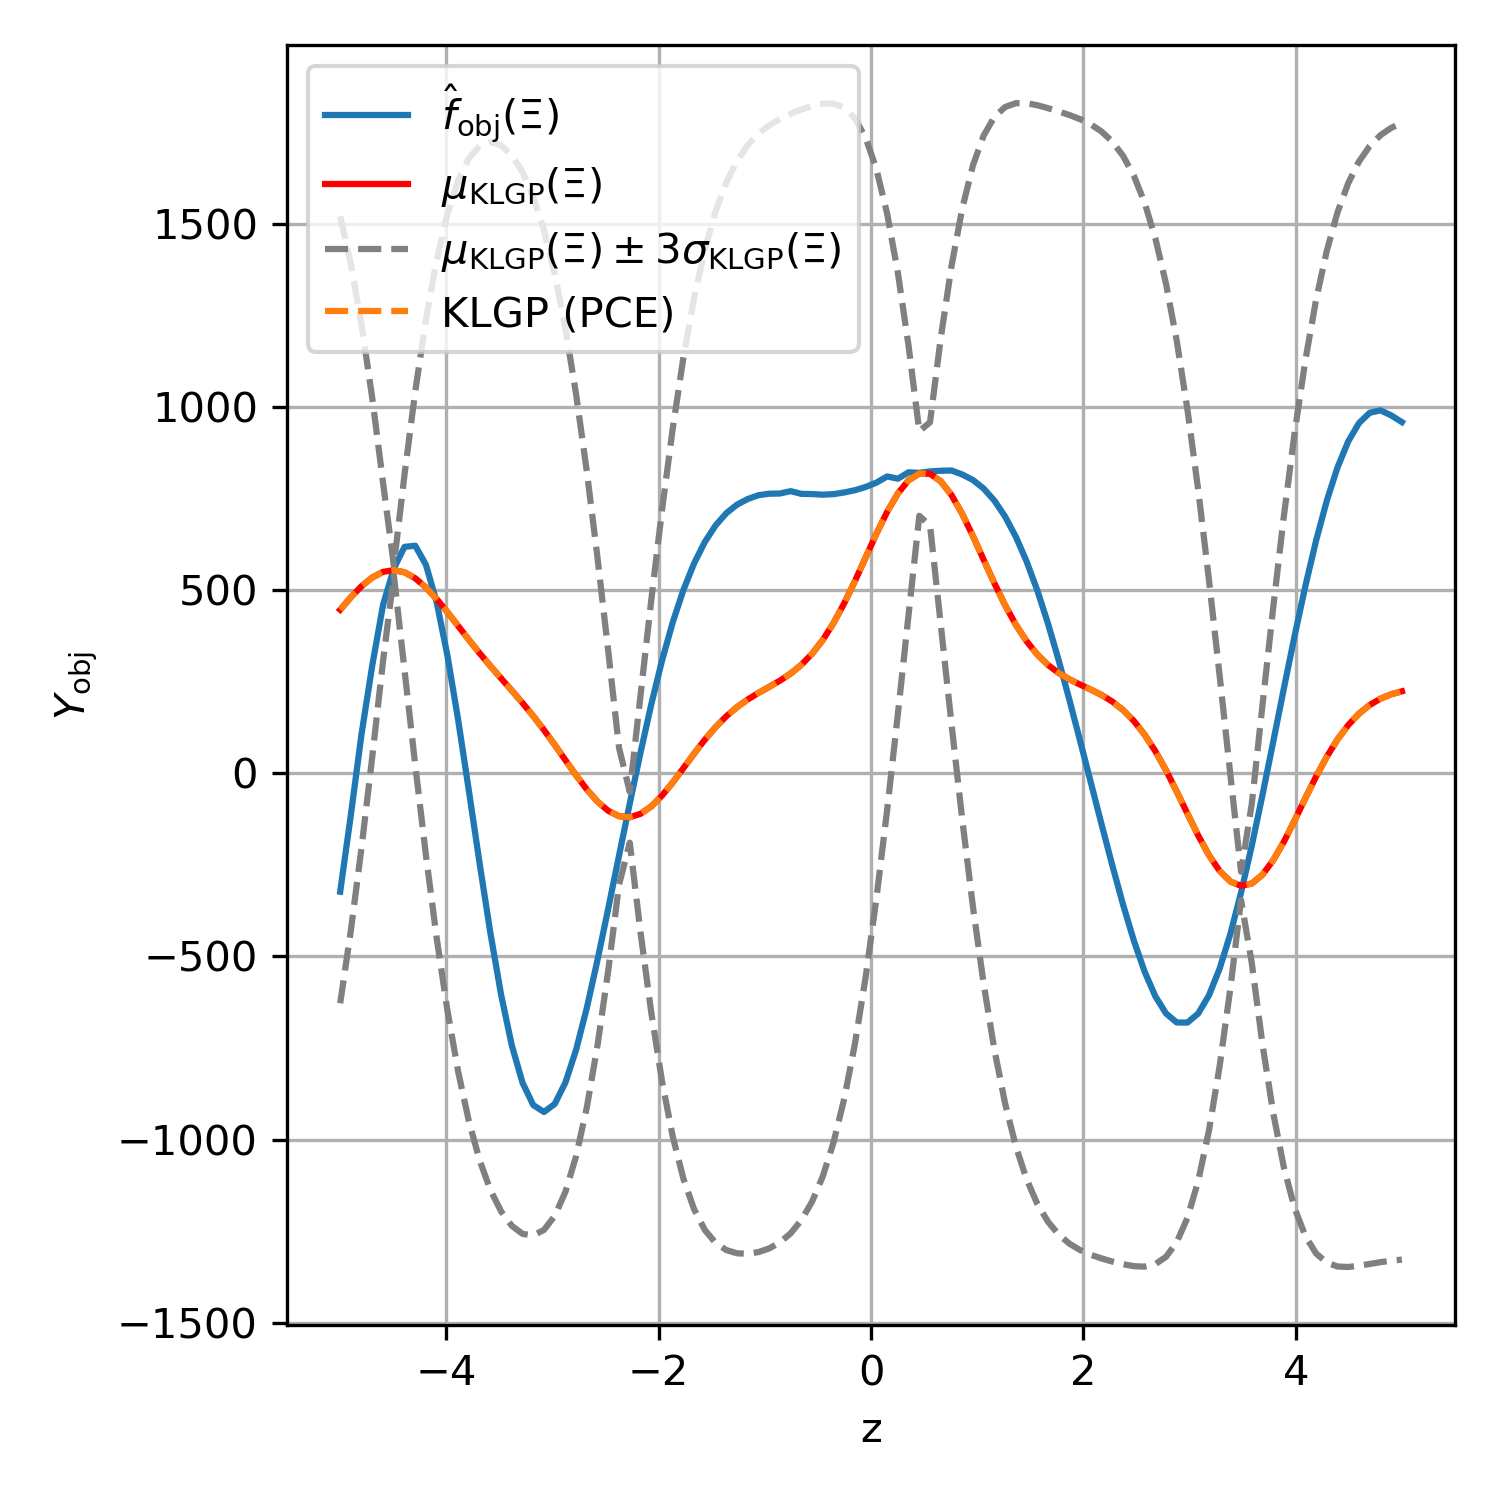
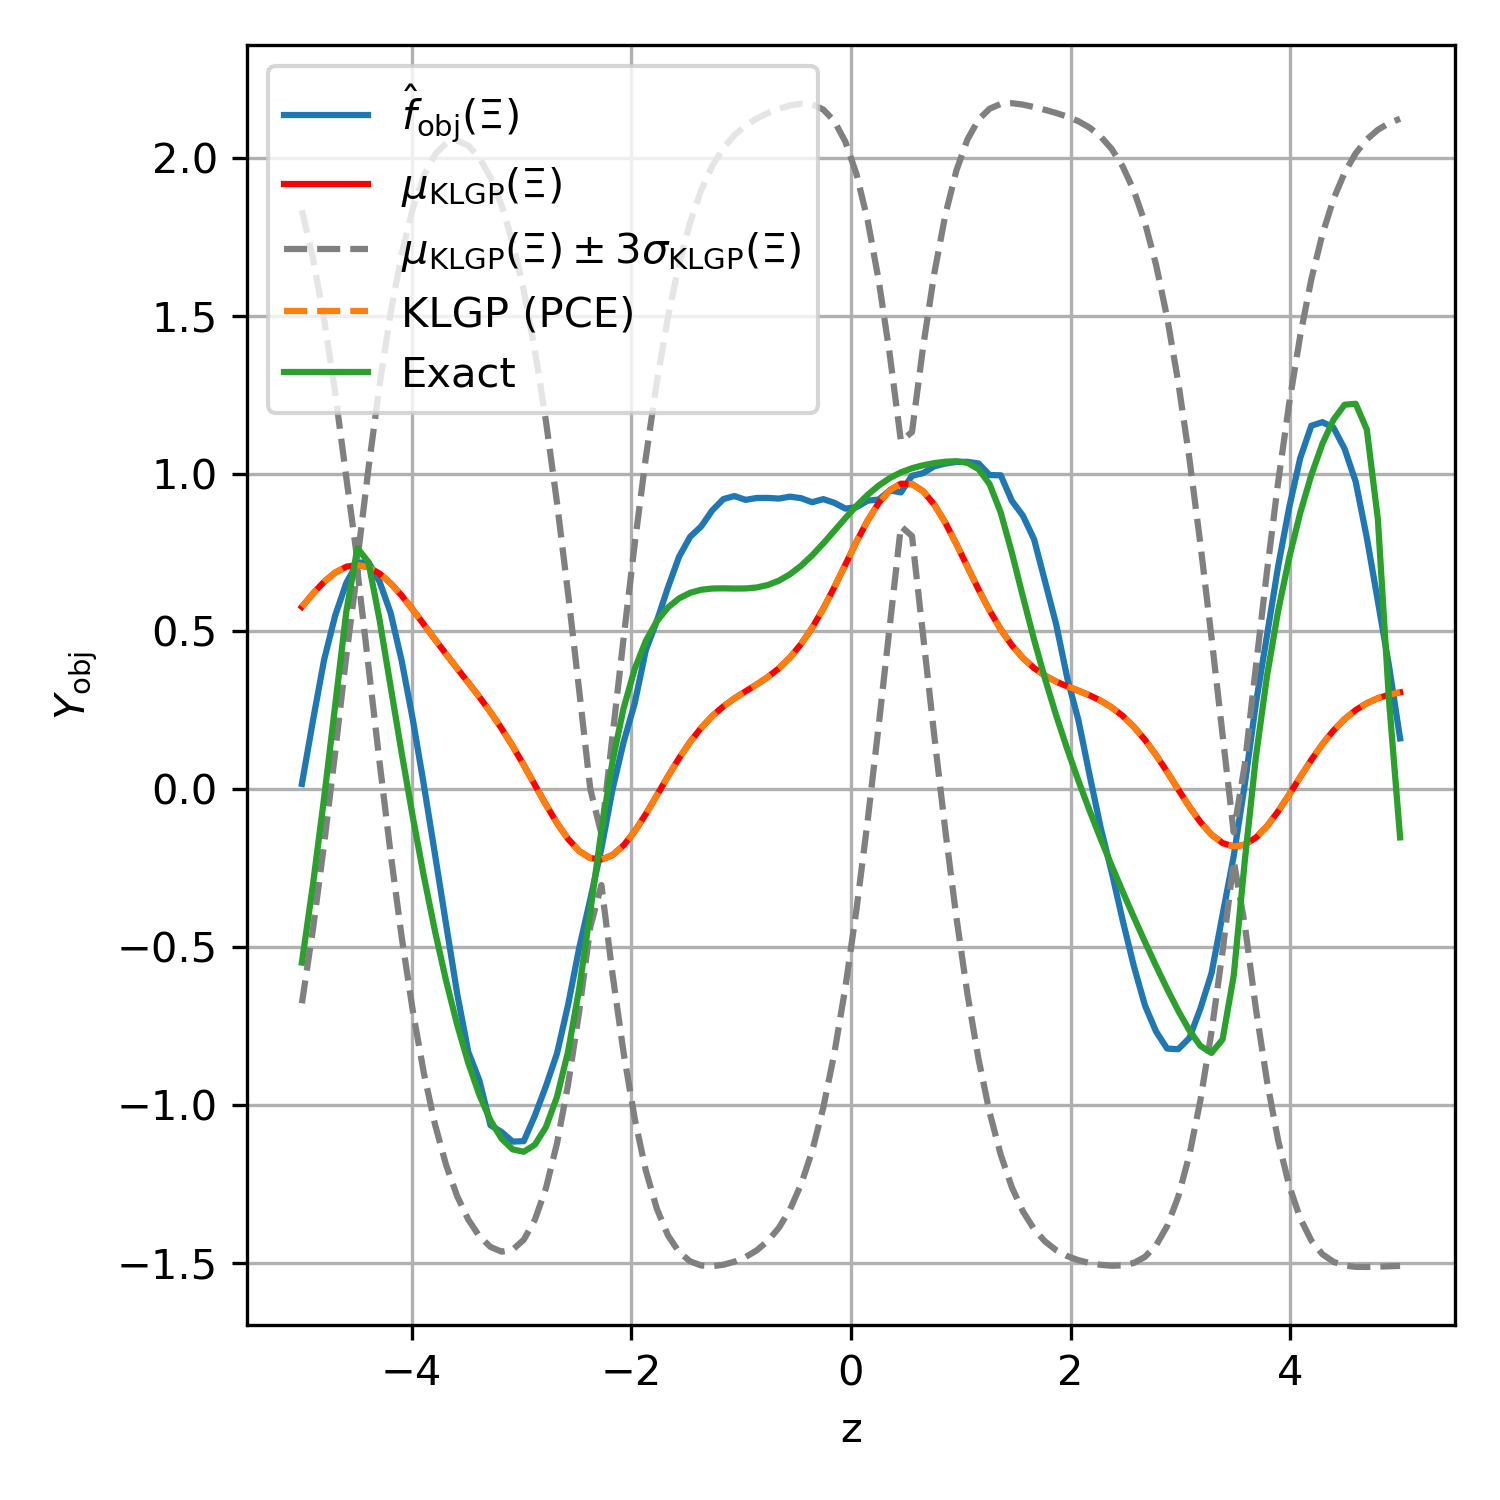
[minor] Fix one test. Add exact solution to KLGP interpolation curves and use a better visualization for the KLGP truncation visualization.

Changed region(s): [[0.092, 0.0307, 0.9507, 0.9813]]

diff --git a/tests/test_KL_GP.py b/tests/test_KL_GP.py
@@ -101,7 +101,6 @@ class TestKL_GP_1D(unittest.TestCase):
         Y_exact = []
         
         xi = self.rng.normal(size=(10000, 2))
-        P = stats.norm.pdf(xi[:, 0]) * stats.norm.pdf(xi[:, 1])
         Y_klgp_pce = []
         Y_klgp_mean = []
         Y_klgp_sigma = []
@@ -111,14 +110,14 @@ class TestKL_GP_1D(unittest.TestCase):
             
             # this is not correct
             # use quadrature rule
-            Y_exact.append(np.sum(pce(xi[:, 0], xi[:, 1]) * P))
+            Y_exact.append(np.mean(pce(xi[:, 0], xi[:, 1])))
             
-            Y_klgp_pce.append(np.sum(pce_klgp(xi[:, 0], xi[:, 1]) * P))
+            Y_klgp_pce.append(np.mean(pce_klgp(xi[:, 0], xi[:, 1])))
             
             _, mean, sigma = self.klgp.getGaussianStatistics(np.array([z_]), xi=xi)
 
-            Y_klgp_mean.append(np.sum(mean * P))
-            Y_klgp_sigma.append(np.sum(sigma * P))
+            Y_klgp_mean.append(np.mean(mean))
+            Y_klgp_sigma.append(np.mean(sigma))
 
         Y_exact = np.array(Y_exact)
         Y_klgp_pce = np.array(Y_klgp_pce)
@@ -134,6 +133,8 @@ class TestKL_GP_1D(unittest.TestCase):
         
         ax.plot(z, Y_klgp_pce, label='KLGP (PCE)', linestyle='--')
         
+        ax.plot(z, self.f(z, *self.scalarcp.solve(z.reshape(-1, 1))[1].T), label='Exact', linestyle='-')
+
         ax.set_xlabel('z')
         ax.set_ylabel(r'$Y_{\text{obj}}$')
         ax.grid()
